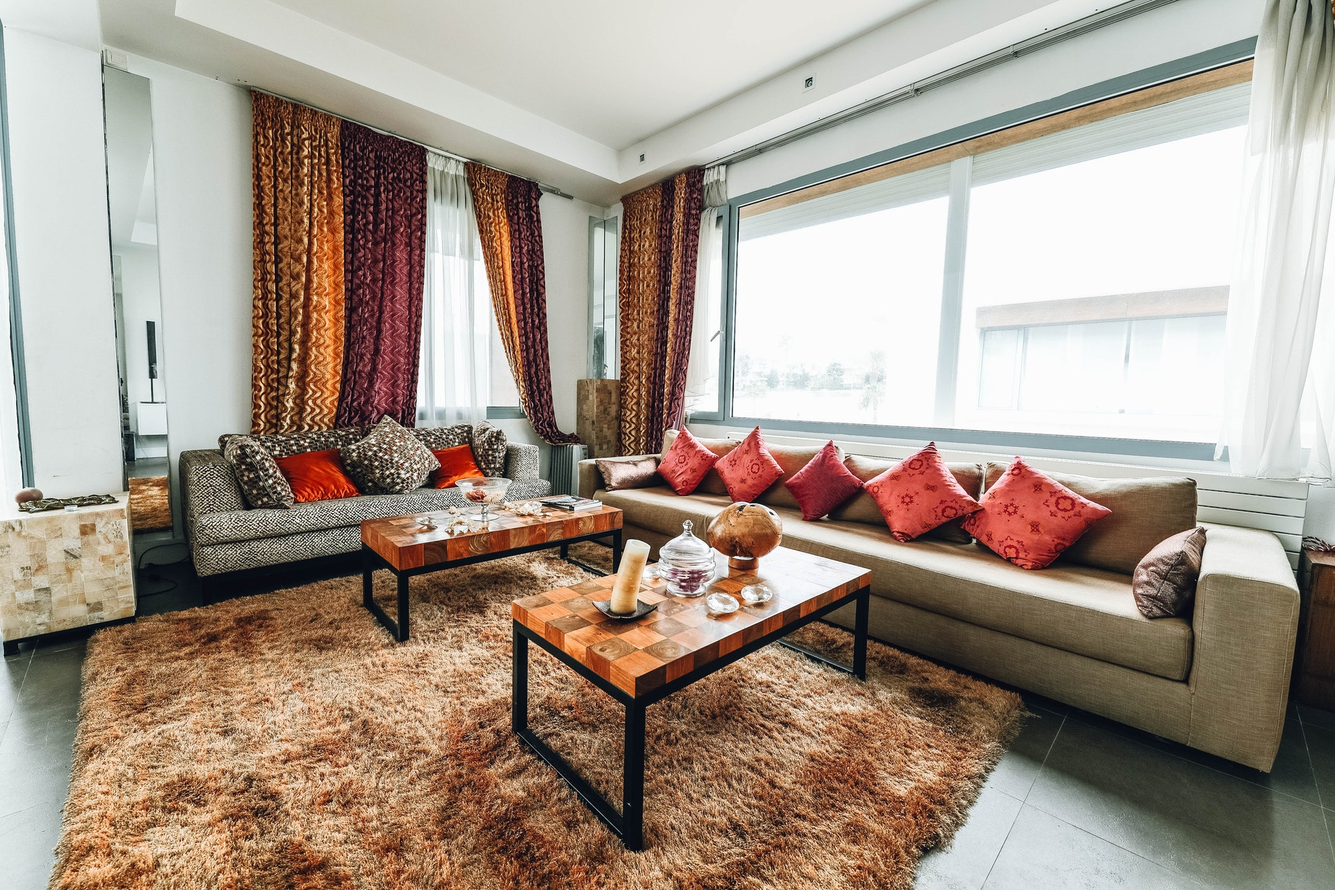
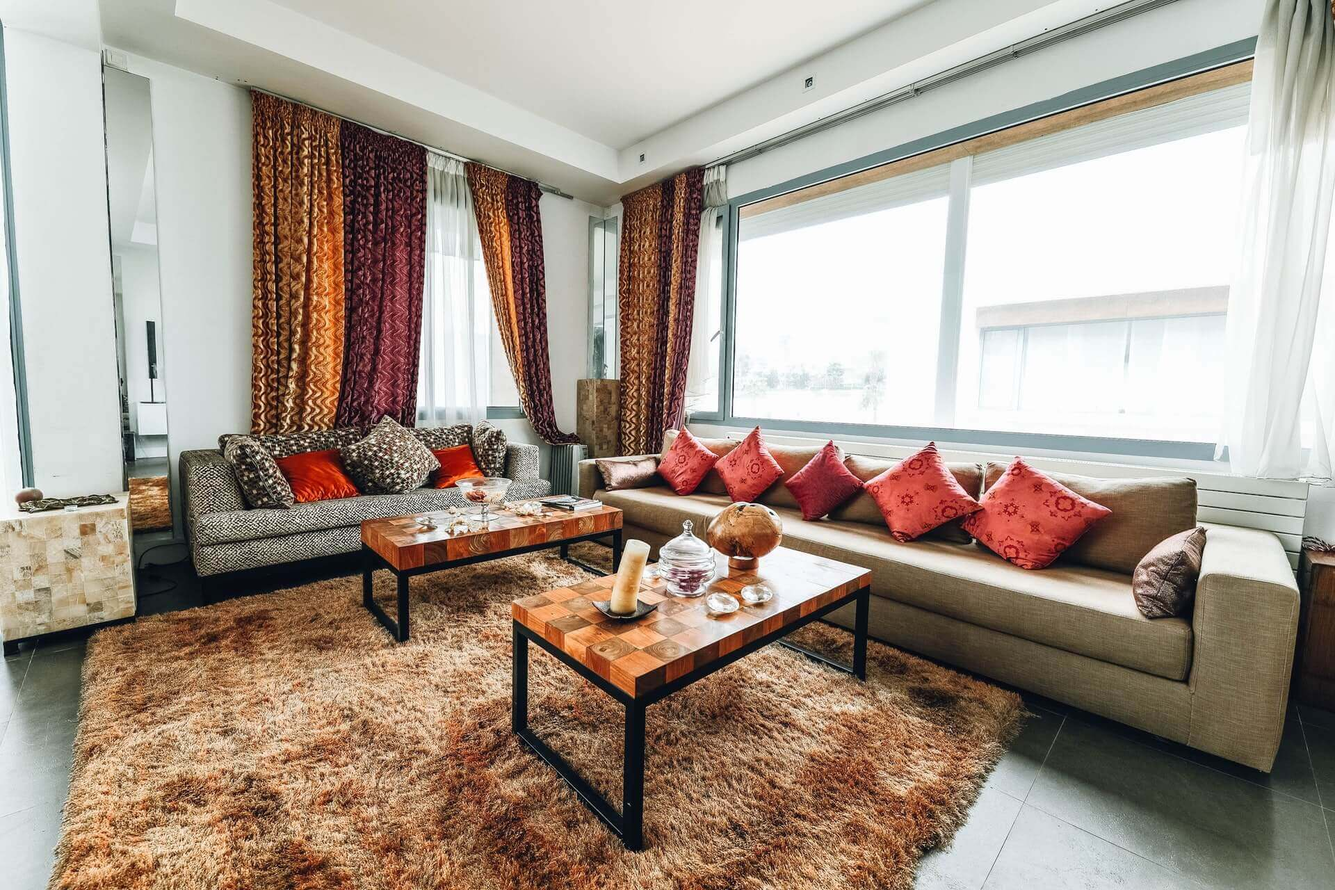
background slider image fix

diff --git a/src/components/common/Slider.jsx b/src/components/common/Slider.jsx
@@ -1,6 +1,7 @@
 import React, { useState, useEffect, useRef } from "react";
 import styled, { keyframes } from "styled-components";
 import { Box } from "@material-ui/core";
+import { deviceSizes } from "../../scripts/constants";
 
 const SliderSection = styled.section`
   height: inherit;
@@ -12,8 +13,8 @@ const SliderSection = styled.section`
 
 const ImageSlide = styled.div`
   z-index: 1;
-  width: 100%;
   position: absolute;
+  width: 100%;
   height: inherit;
 `;
 
@@ -27,6 +28,7 @@ const ImageSlider = styled.div`
   justify-content: center;
   position: relative;
 `;
+
 const slideIn = keyframes`
   from {
     opacity: 0;
@@ -36,9 +38,21 @@ const slideIn = keyframes`
   }
 `;
 const SlideImage = styled.img`
-  height: inherit;
-  width: 100%;
   animation: ${slideIn} 1s;
+  width: 100%;
+  max-height: 100vh;
+  height: auto;
+  object-position: center center;
+  object-fit: cover;
+  @media ${deviceSizes.mobileS} {
+    width: auto;
+  }
+  @media ${deviceSizes.tablet} {
+    width: auto;
+  }
+  @media ${deviceSizes.laptop} {
+    width: 100%;
+  }
 `;
 
 const InfoContainer = styled.div`

diff --git a/src/scripts/slider.js b/src/scripts/slider.js
@@ -1,7 +1,7 @@
 import Image2 from "../media/images/image2.jpg";
 import Image4 from "../media/images/image4.jpg";
 import Image8 from "../media/images/image8.jpg";
-import Image7 from "../media/images/image7.jpg";
+import Image7 from "../media/images/image7_com.jpg";
 
 export const sliderData = [
   {

diff --git a/src/pages/Home.jsx b/src/pages/Home.jsx
@@ -10,9 +10,6 @@ const HeroSection = styled.div`
   height: 100vh;
 
   @media screen and (max-width: 768px) {
-    display: grid;
-    grid-template-columns: repeat(auto-fill, minmax(250px, 1fr));
-    grid-gap: 3.125rem;
     height: calc(100vh - 0rem);
   }
 `;
